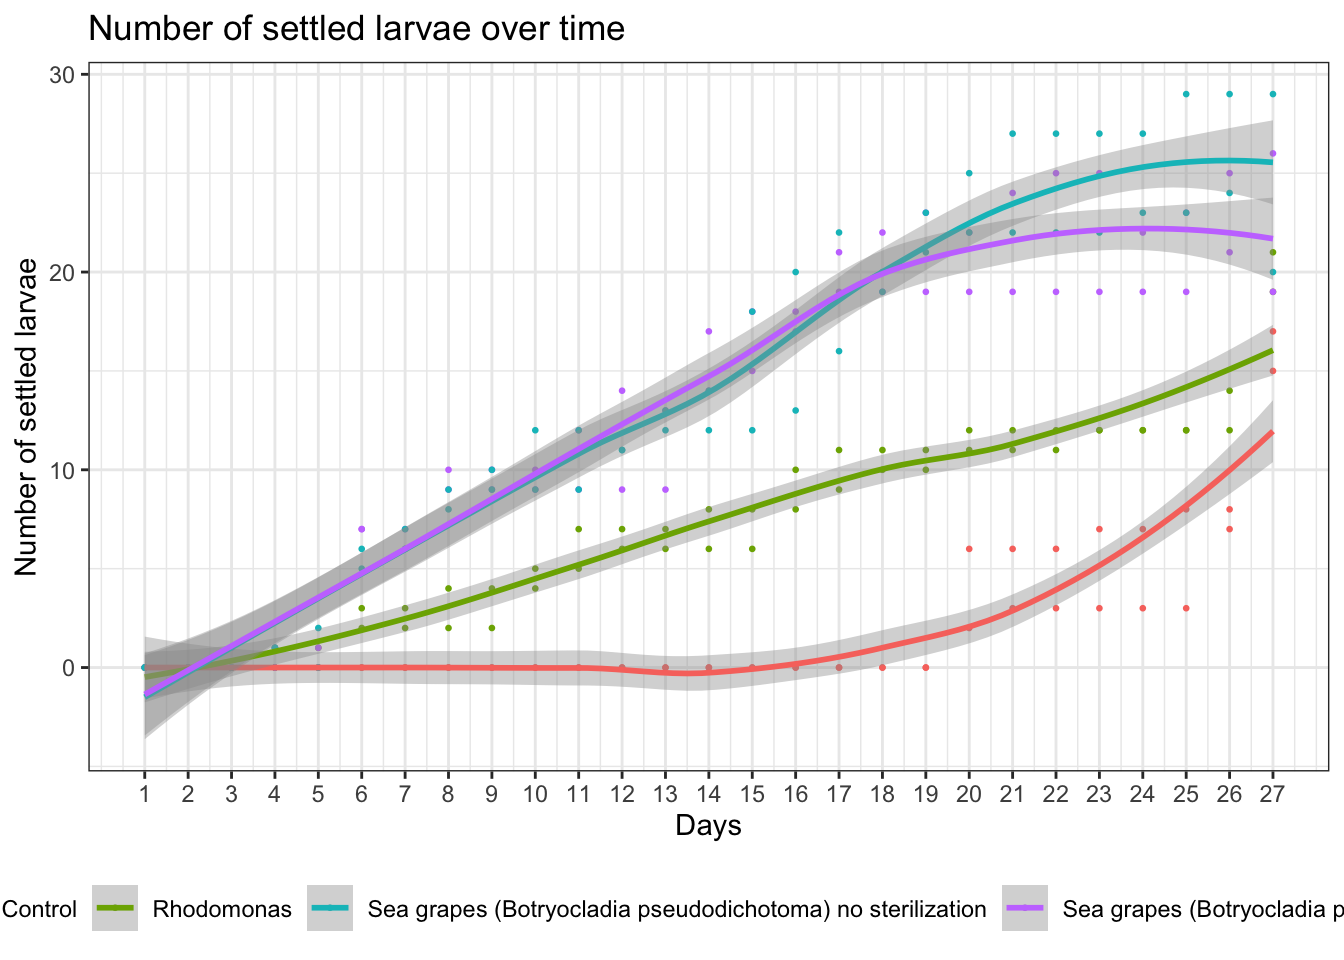
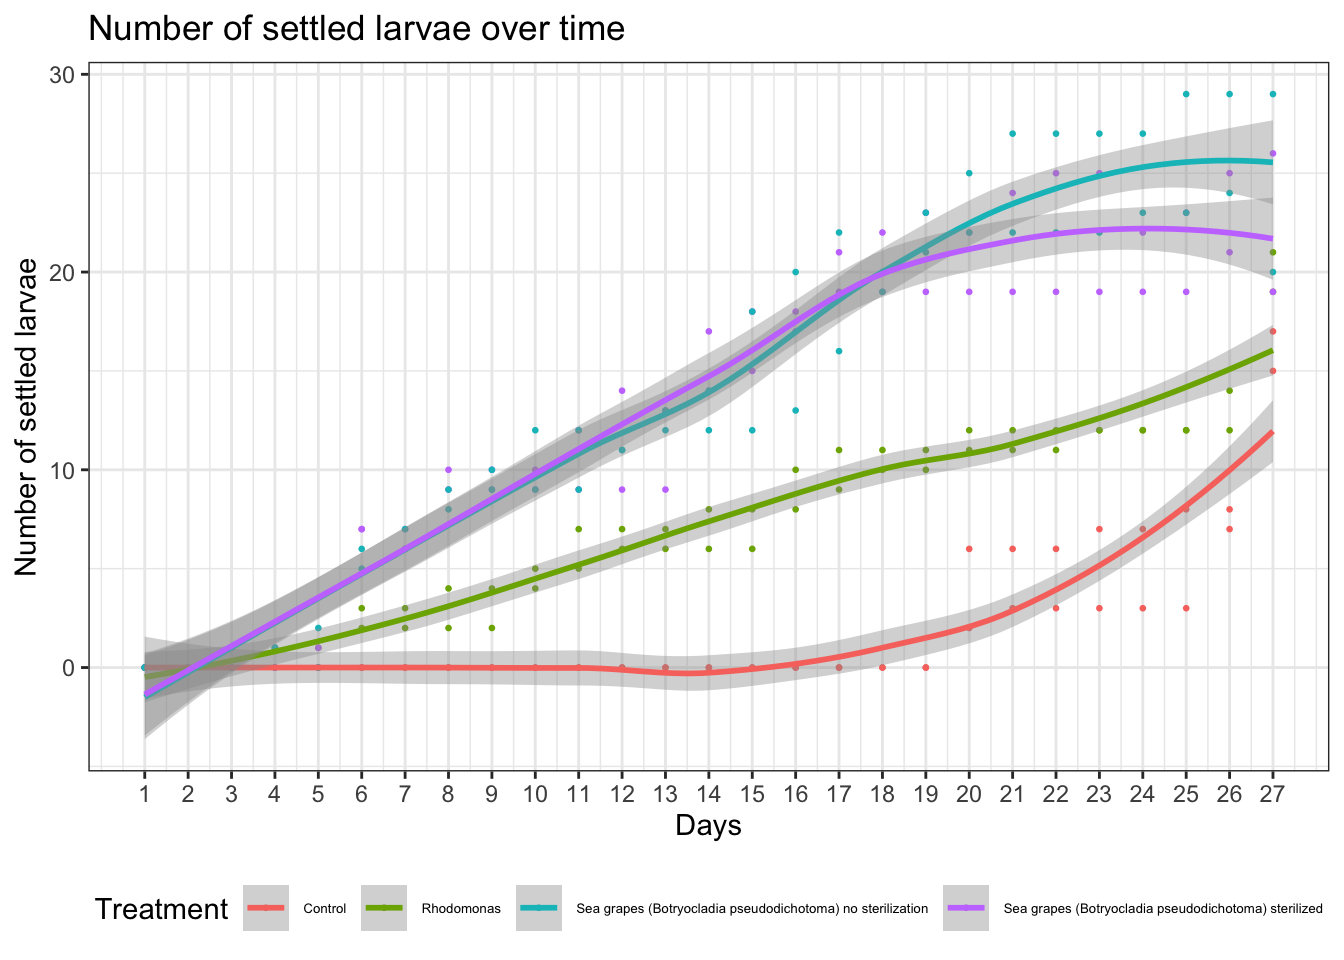
rendering website

Changed region(s): [[0.0, 0.9062, 1.0, 0.9688]]

diff --git a/docs/portfolio.html b/docs/portfolio.html
@@ -125,6 +125,8 @@ ul.task-list li input[type="checkbox"] {
   <li><a href="#part-1---describe-your-process" id="toc-part-1---describe-your-process" class="nav-link" data-scroll-target="#part-1---describe-your-process">Part 1 - Describe your Process</a></li>
   <li><a href="#data-description" id="toc-data-description" class="nav-link" data-scroll-target="#data-description">Data Description</a></li>
   <li><a href="#data-cleaning" id="toc-data-cleaning" class="nav-link" data-scroll-target="#data-cleaning">Data Cleaning</a></li>
+  <li><a href="#visualization-1---settlement-over-time" id="toc-visualization-1---settlement-over-time" class="nav-link" data-scroll-target="#visualization-1---settlement-over-time">Visualization 1 - Settlement Over Time</a></li>
+  <li><a href="#visualization-2---proportion-of-settled-stars" id="toc-visualization-2---proportion-of-settled-stars" class="nav-link" data-scroll-target="#visualization-2---proportion-of-settled-stars">Visualization 2 - Proportion of Settled Stars</a></li>
   </ul>
 </nav>
     </div>
@@ -170,24 +172,34 @@ ul.task-list li input[type="checkbox"] {
 <h1>Data Cleaning</h1>
 <p>During the data cleaning process I filtered for when the larvae is greater than one because I didn’t want any zeros in my visualization skewing the plots. Then I added a column called “Status” to show the exact counts of larvae and settled stars for each container each day. I then added a column to calculate proportion to see the rate of settlement over time.</p>
 <p>You can add options to executable code like this</p>
+</section>
+<section id="visualization-1---settlement-over-time" class="level1">
+<h1>Visualization 1 - Settlement Over Time</h1>
+<p>This is my first visualization which is a scatter plot showing the number of settled stars over time (in days) for each treatment. Each color represents a treatment which is labeled in the legend. As you can see from the graph, the sea grape treatments had a large impact on settlement.</p>
 <div class="cell">
 <div class="cell-output-display">
 <div>
 <figure class="figure">
-<p><img src="portfolio_files/figure-html/unnamed-chunk-5-1.png" class="img-fluid figure-img" width="672"></p>
+<p><img src="portfolio_files/figure-html/unnamed-chunk-5-1.png" class="img-fluid figure-img" alt="A scatterplot graph showing the number of settled stars over time in days for each substrate treatment. Each day is plotted with a dot and a smoothed line was added to show the linear regression over time. The treatments are labeled on the legend (control, rhodomonas only, sterilized sea grapes, and non-sterilized sea grapes). The sea grape treatments show a much faster settlement rate over the experiment." width="672"></p>
 </figure>
 </div>
 </div>
 </div>
+<p>Figure 1: This is a scatter plot showing the number of settled stars throughout the experiment in days. Each treatment is represented by a different color which are labeled by the legend .</p>
+</section>
+<section id="visualization-2---proportion-of-settled-stars" class="level1">
+<h1>Visualization 2 - Proportion of Settled Stars</h1>
+<p>This is a box plot showing the proportion of settled stars in each treatment at the end of the experiment. Proportion is on the y-axis and is shown on a scale from 0-100. We see a much higher proportion of settled stars in the non-sterilized sea grape treatment.Each color is representative of a treatment which is labeled in the legend (control, rhodomonas only, sterilized sea grapes, and non-sterilized sea grapes).</p>
 <div class="cell">
 <div class="cell-output-display">
 <div>
 <figure class="figure">
-<p><img src="portfolio_files/figure-html/unnamed-chunk-6-1.png" class="img-fluid figure-img" width="672"></p>
+<p><img src="portfolio_files/figure-html/unnamed-chunk-6-1.png" class="img-fluid figure-img" alt="A boxplot showing the proportion of settled stars in each treatment at the end of the experiment. Legend corresponds to the treatments(control, rhodomonas only, sterilized sea grapes, and non-sterilized sea grapes). Non-sterilized sea grapes had a much higher proportion of settled stars compared to the other groups." width="672"></p>
 </figure>
 </div>
 </div>
 </div>
+<p>Figure 2: This is a box plot graph showing the number of settled stars throughout the experiment in days for each treatment. Each treatment is represented by a different color which are labeled by the legend (control, rhodomonas only, sterilized sea grapes, and non-sterilized sea grapes). The non-sterilized sea grape treatment had a much higher settlement rate compared to the control, however settlement rate was pretty similar to the treated sea grape group.</p>
 
 
 </section>